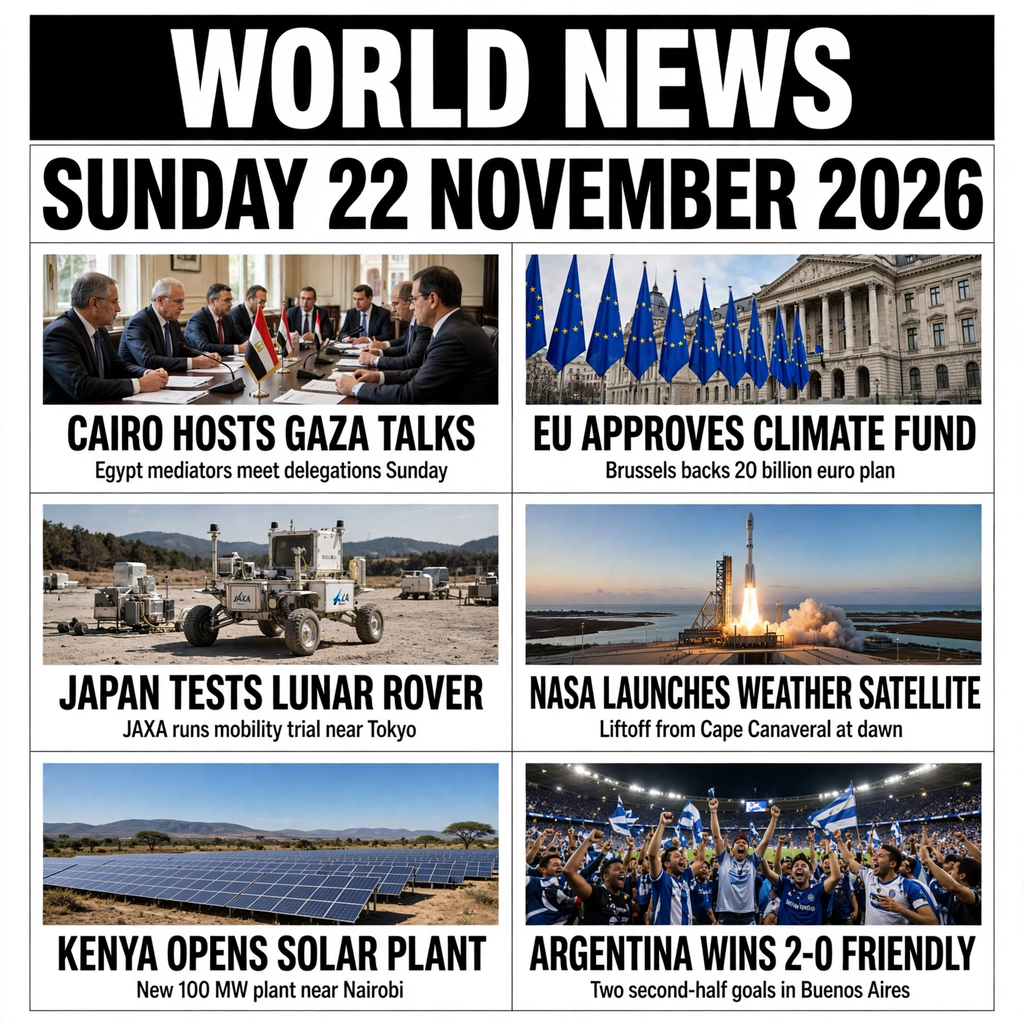
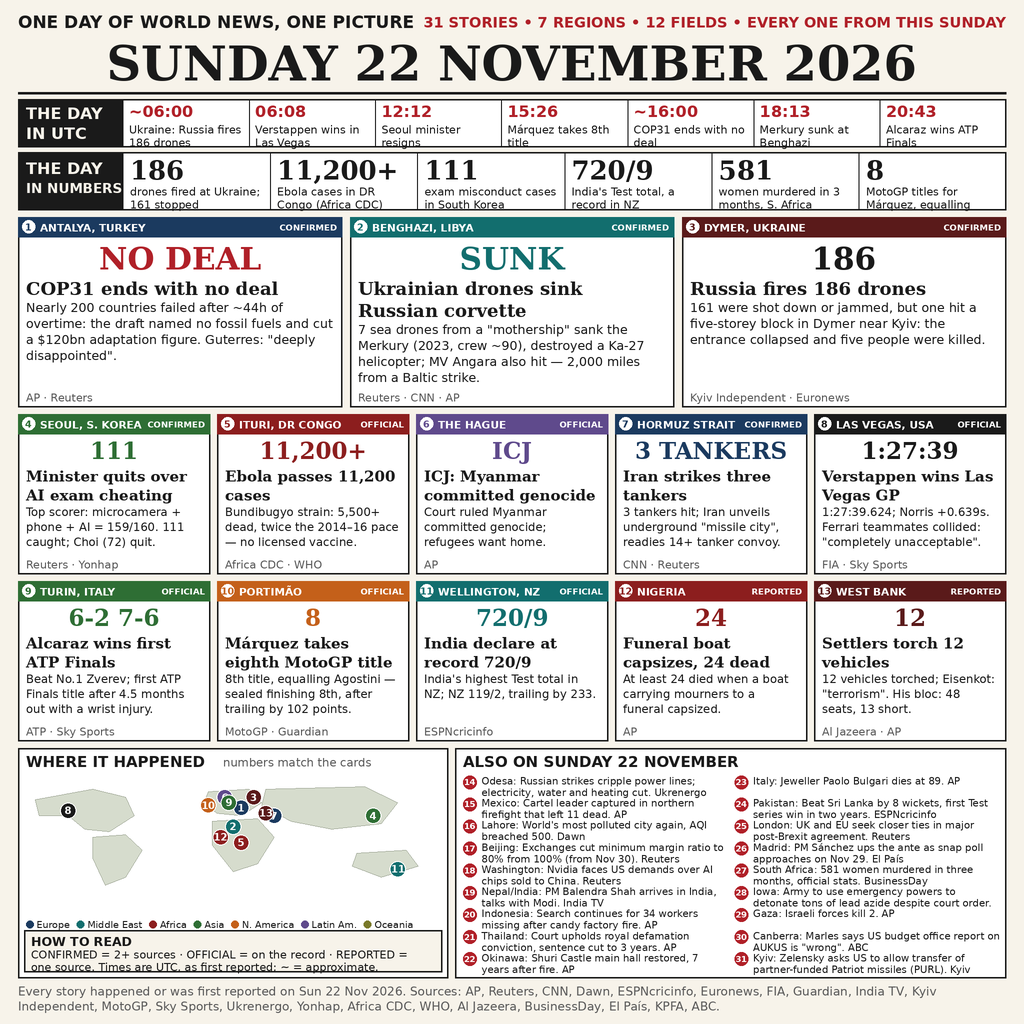
Round 4: dense infographic with verified details

diff --git a/main.ts b/main.ts
@@ -1,53 +1,40 @@
 // Penyalin gambar berita untuk entry news-image-20261122.
-//
-// Gambar final sudah disiapkan di repo sebagai entry.png, tepat di
-// sebelah berkas ini. Tugas program hanya menyalinnya ke folder
-// output agar dua run berurutan selalu menghasilkan byte yang sama
-// persis (deterministik).
-//
-// Lokasi entry.png dicari dari direktori script ini sendiri lewat
-// import.meta.url, dengan cadangan env MAKEFUN_BOT_DIR bila tersedia.
-// Pencarian tidak bergantung pada working directory, karena grader
-// bisa menjalankan script dari cwd mana pun.
+// Gambar final sudah disiapkan di repo sebagai entry.png di sebelah
+// berkas ini; tugas program hanya menyalinnya ke folder output
+// agar dua run berurutan selalu menghasilkan byte yang sama persis.
 
 import { copyFileSync, existsSync, mkdirSync, statSync } from "node:fs";
 import { join } from "node:path";
 import { fileURLToPath } from "node:url";
 
+// Direktori skrip ini sendiri, dari URL modul — tidak bergantung pada
+// direktori kerja proses, yang tidak dijamin sama dengan lokasi repo.
 const scriptDir = fileURLToPath(new URL(".", import.meta.url));
-const besideScript = join(scriptDir, "entry.png");
 
+const candidates: string[] = [join(scriptDir, "entry.png")];
 const botDir = process.env.MAKEFUN_BOT_DIR;
-const inBotDir = botDir ? join(botDir, "entry.png") : null;
+if (botDir) {
+  candidates.push(join(botDir, "entry.png"));
+}
 
-const sourcePath = existsSync(besideScript)
-  ? besideScript
-  : inBotDir && existsSync(inBotDir)
-    ? inBotDir
-    : besideScript;
-
-const outputDir = process.env.MAKEFUN_OUTPUT_DIR ?? "/output";
-const targetPath = join(outputDir, "entry.png");
-
-if (!existsSync(sourcePath)) {
+const sourcePath = candidates.find(
+  (p) => existsSync(p) && statSync(p).size > 0,
+);
+if (!sourcePath) {
   throw new Error(
-    `entry.png tidak ditemukan; dicari di ${besideScript}` +
-      (inBotDir ? ` dan ${inBotDir}` : ""),
+    `entry.png tidak ditemukan atau kosong; dicari di ${candidates.join(", ")}`,
   );
 }
 
-const sourceSize = statSync(sourcePath).size;
-if (sourceSize === 0) {
-  throw new Error(`entry.png kosong: ${sourcePath}`);
-}
-
+const outputDir = process.env.MAKEFUN_OUTPUT_DIR ?? "/output";
 mkdirSync(outputDir, { recursive: true });
+const targetPath = join(outputDir, "entry.png");
+
+// Salinan murni byte-per-byte: tidak ada stempel waktu atau metadata
+// yang ditulis ulang, jadi output selalu identik antar-run.
 copyFileSync(sourcePath, targetPath);
 
-if (!existsSync(targetPath)) {
-  throw new Error(`salinan tidak tercipta di ${targetPath}`);
-}
-
+const sourceSize = statSync(sourcePath).size;
 const writtenSize = statSync(targetPath).size;
 if (writtenSize !== sourceSize) {
   throw new Error(
